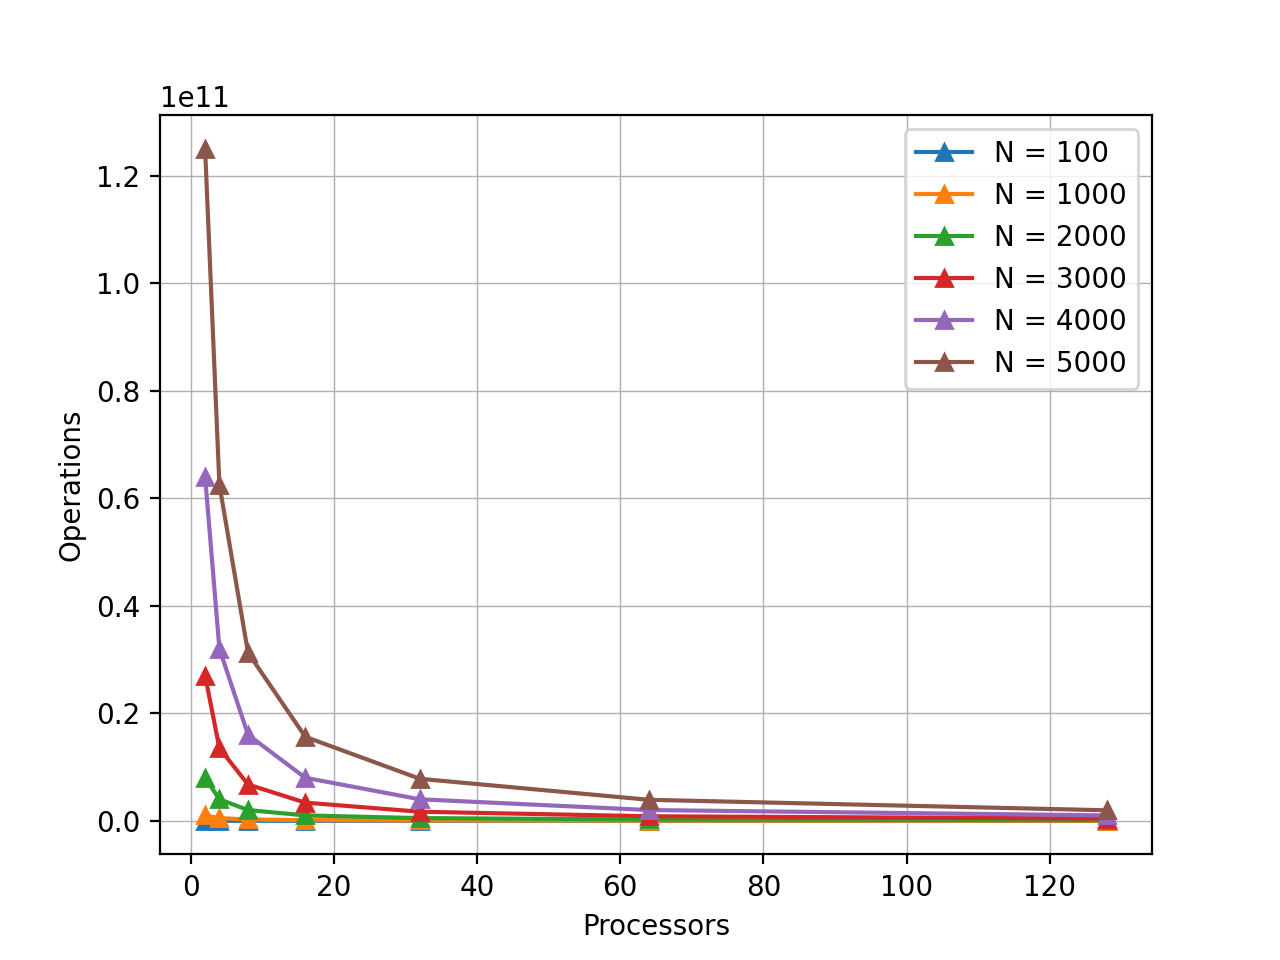
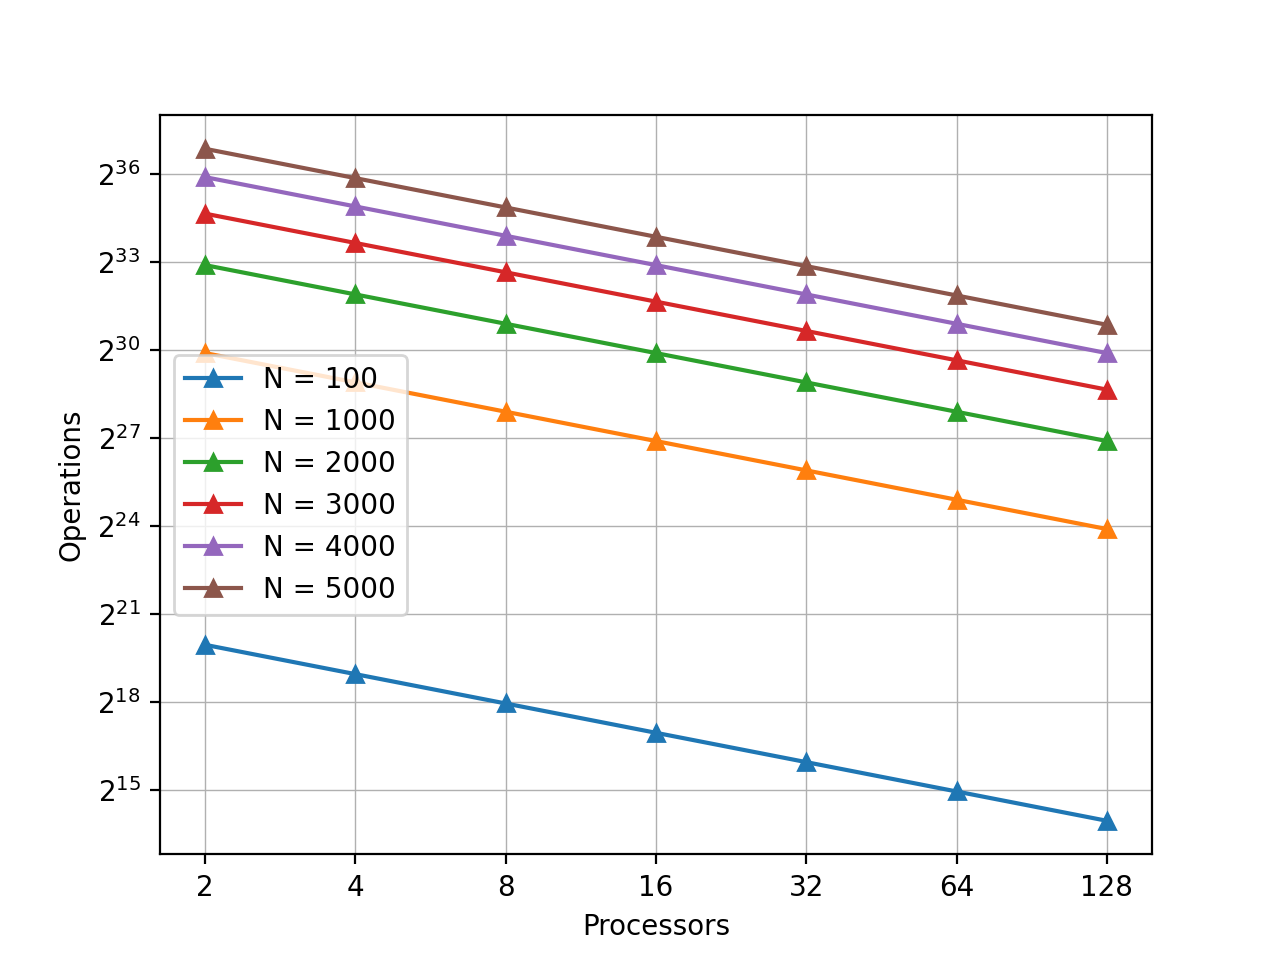
experiment analysis

diff --git a/gaussian-elimination/analysis/theoretical.py b/gaussian-elimination/analysis/theoretical.py
@@ -21,6 +21,7 @@ def generate_data() -> dict:
     for n in data["N"]:
         tp = [parallel_time(n, proc) for proc in data["procs"]]
         data[f"tp_N={n}"] = tp
+    data["str_procs"] = [str(proc) for proc in data["procs"]]
     return data
 
 def draw_figure() -> None:
@@ -31,18 +32,19 @@ def draw_figure() -> None:
     for key in data.keys():
         if key.startswith("tp_"):
             ax1.plot(
-                data["procs"],
+                data["str_procs"],
                 data[key],
                 label=f"N = {key.split("=")[-1]}",
                 marker = "^"
             )
     
     ax1.legend()
-    # ax1.set_xscale("log", base = 2)
+    ax1.set_yscale("log", base = 2)
     ax1.set_ylabel("Operations")
     ax1.set_xlabel("Processors")
     ax1.grid(which='both', linestyle='-', linewidth=0.5)
     plt.savefig("./figures/parallel-runtime.png", dpi = 200)
-
+    plt.show()
+    
 if __name__ == "__main__":
     draw_figure()

diff --git a/gaussian-elimination/analysis/experimental-1.py b/gaussian-elimination/analysis/experimental-1.py
@@ -1,0 +1,34 @@
+import pandas as pd
+import matplotlib.pyplot as plt
+
+def load_data():
+    data = pd.read_csv("./data/data1.csv", header=0)
+    data["Threads"] = data["Threads"].astype(str)
+    return data
+
+
+def draw_figure():
+    data = load_data()
+    
+    fig, ax1 = plt.subplots()
+    
+    for key in data.keys():
+        if key != "Threads":
+            ax1.plot(
+                data["Threads"],
+                data[key],
+                label=f"N={key}",
+                marker="o"
+            )
+    
+    ax1.legend()
+    ax1.legend(loc='center left', bbox_to_anchor=(1, 0.5), title="Workload")
+    ax1.set_yscale("log", base = 2)
+    ax1.set_ylabel("Time (ms)")
+    ax1.set_xlabel("Threads")
+    ax1.grid(which='both', linestyle='-', linewidth=0.5)
+    plt.savefig("./figures/experiment1.png", dpi = 200, bbox_inches="tight")
+    plt.show()
+            
+if __name__ == "__main__":
+    draw_figure()
